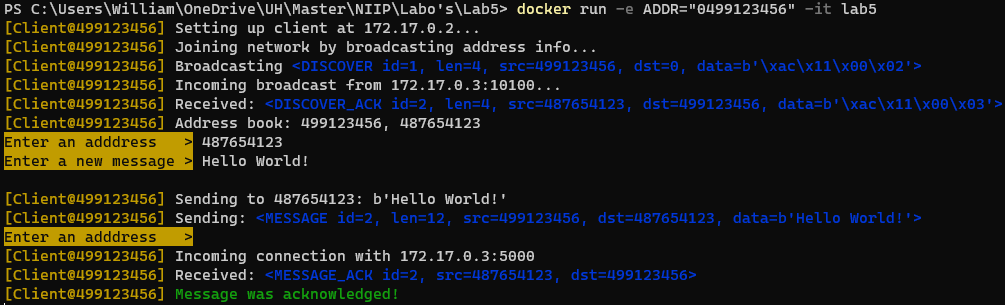
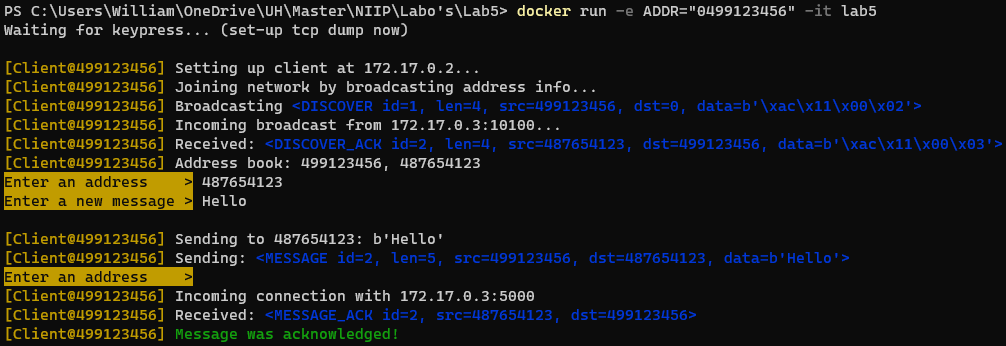
Add tcpdump container

Changed region(s): [[0.0, 0.0, 1.0, 1.0]]

diff --git a/Lab5/Client/client.py b/Lab5/Client/client.py
@@ -322,9 +322,11 @@ class Client:
             while True:
                 try:
                     self.input_newline.acquire(False)
-                    adr = input(style("Enter an adddress   >", Colours.BG.YELLOW, Colours.FG.BLACK) + " ")
-                    adr = Bits.unpack(IPacket.convert_address(Bits.bytes_to_str(adr)))
+                    adr = input(style("Enter an address    >", Colours.BG.YELLOW, Colours.FG.BLACK) + " ")
+                    if not adr:
+                        continue
 
+                    adr = Bits.unpack(IPacket.convert_address(Bits.bytes_to_str(adr)))
                     if not self.address_exists(adr):
                         self.input_newline.release()
                         self._log(style(f"Unknown address '{adr}'?", Colours.FG.BRIGHT_RED))
@@ -380,6 +382,10 @@ if __name__ == "__main__":
 
             if msg == "None":
                 msg = None
+
+
+    print("Waiting for keypress... (set-up tcp dump now)")
+    input()
 
     client = Client(address, interactive, msg)
     client.start()
